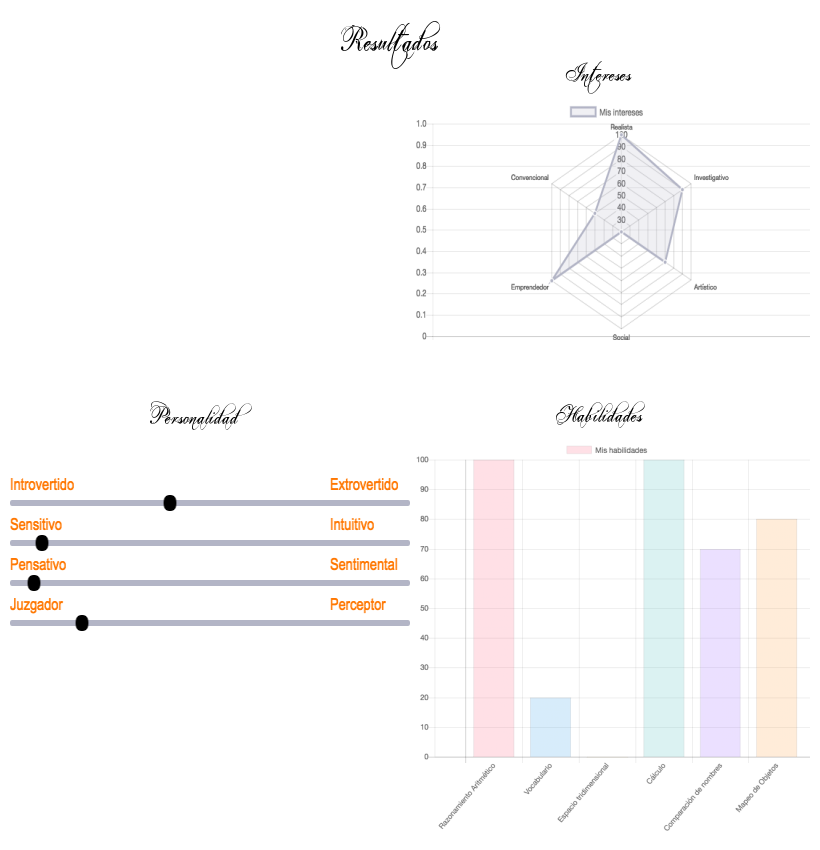
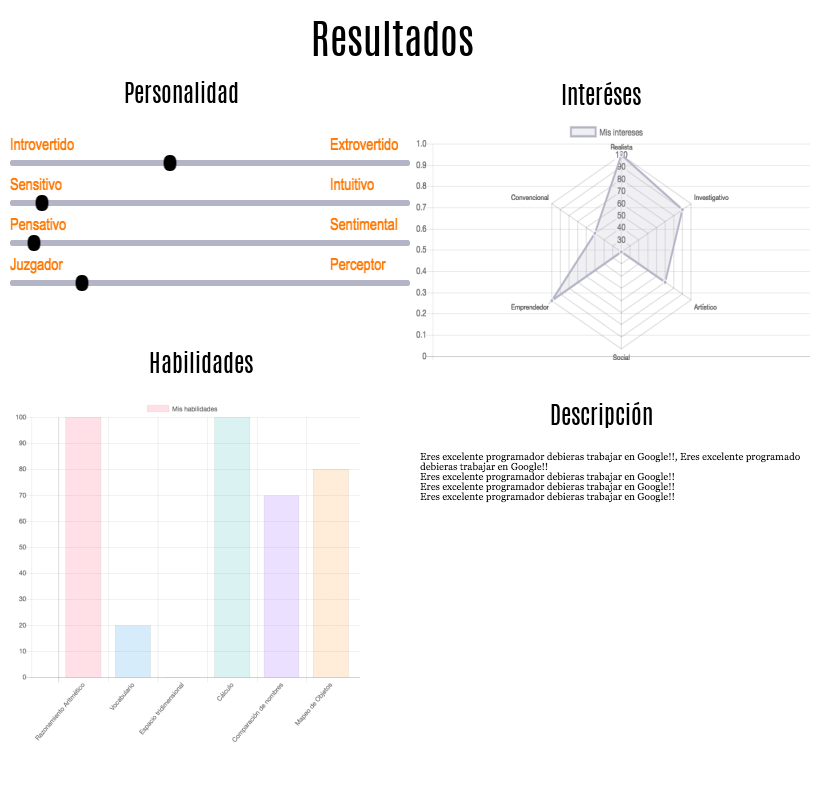
Fixed results layout

diff --git a/assets/js/social.js b/assets/js/social.js
@@ -17,11 +17,6 @@ $(document).ready(function () {
             var description = _convertDescriptionToCanvas();
 
 
-            console.log(description);
-
-            return;
-
-
             bootbox.prompt("Comenta algo sobre tu resultado", function (result) {
                 if (result !== null) {
 
@@ -36,6 +31,7 @@ $(document).ready(function () {
                             interests: interests,
                             skills: skills,
                             personality: personality,
+                            description: description,
                             token: token,
                             message: result
                         },
@@ -58,9 +54,6 @@ $(document).ready(function () {
             });
 
 
-
-
-
         }
 
         var _convertDescriptionToCanvas = function () {
@@ -69,8 +62,8 @@ $(document).ready(function () {
             var c = document.getElementById("canvas-user-description");
             var ctx = c.getContext("2d");
 
-            ctx.font = "14px Georgia";
-            wrapText(ctx, description,20,20,400,10);
+            ctx.font = "10px Georgia";
+            wrapText(ctx, description, 20, 20, 400, 10);
             //_fillTextMultiLine(ctx, description, 10,0);
             // ctx.fillText(description, 10, 50);
 
@@ -84,7 +77,7 @@ $(document).ready(function () {
             for (var ii = 0; ii < cars.length; ii++) {
 
                 var line = "";
-                var words = cars[ii].split(" ");
+                var words = cars[ii].trim().split(" ");
 
                 for (var n = 0; n < words.length; n++) {
                     var testLine = line + words[n] + " ";
@@ -101,7 +94,7 @@ $(document).ready(function () {
                     }
                 }
 
-                context.fillText(line, x, y);
+                context.fillText(line.trim(), x, y);
                 y += lineHeight;
             }
         }
@@ -112,9 +105,6 @@ $(document).ready(function () {
 
 
     })($, _);
-
-
-
 
 
     //Orientame.socialNetwork.render();

diff --git a/api.php b/api.php
@@ -41,39 +41,51 @@ class Orientame {
                             'interests' => $_POST['interests'],
                             'skills' => $_POST['skills'],
                             'personality' => $_POST['personality'],
+                            'description' => $_POST['description'],
                         );
+
 
                         Image::configure(array('driver' => 'gd'));
 
-                        $imgCanvas = Image::canvas(820, 850, '#fff');
+                        $fontPath = 'assets/fonts/Antonio-Regular.ttf';
 
-                        $imgCanvas->text('Resultados', 390, 20, function($font) {
-                            $font->file('assets/fonts/eutemia.ttf');
+                        $imgCanvas = Image::canvas(820, 800, '#fff');
+
+                        $imgCanvas->text('Resultados', 390, 20, function($font) use ($fontPath){
+                            $font->file($fontPath);
                             $font->color('#000');
                             $font->align('center');
                             $font->valign('top');
-                            $font->size(30);
+                            $font->size(40);
                         });
 
-                        $imgCanvas->text('Intereses', 600, 60, function($font) {
-                            $font->file('assets/fonts/eutemia.ttf');
-                            $font->color('#000');
-                            $font->align('center');
-                            $font->valign('top');
-                            $font->size(24);
-                        });
-
-                        $imgCanvas->text('Personalidad', 200, 400, function($font) {
-                            $font->file('assets/fonts/eutemia.ttf');
+                        $imgCanvas->text('Personalidad', 180, 80, function($font) use ($fontPath){
+                            $font->file($fontPath);
                             $font->color('#000');
                             $font->align('center');
                             $font->valign('top');
                             $font->size(24);
                         });
 
+                        $imgCanvas->text('Interéses', 600, 80, function($font) use($fontPath) {
+                            $font->file($fontPath);
+                            $font->color('#000');
+                            $font->align('center');
+                            $font->valign('top');
+                            $font->size(24);
+                        });
 
-                        $imgCanvas->text('Habilidades', 600, 400, function($font) {
-                            $font->file('assets/fonts/eutemia.ttf');
+                        $imgCanvas->text('Habilidades', 200, 350, function($font) use($fontPath){
+                            $font->file($fontPath);
+                            $font->color('#000');
+                            $font->align('center');
+                            $font->valign('top');
+                            $font->size(24);
+                        });
+
+
+                        $imgCanvas->text('Descripción', 600, 400, function($font) use($fontPath) {
+                            $font->file($fontPath);
                             $font->color('#000');
                             $font->align('center');
                             $font->valign('top');
@@ -82,14 +94,16 @@ class Orientame {
 
 
                         //$imgCanvas->text('Resultados Orientación Vocacional');
+                        $imgDescription = Image::make($_POST['description']);
                         $imgInterests = Image::make($_POST['interests'])->resize(400, 240);
                         $imgPersonality = Image::make($_POST['personality'])->resize(400, 200);
-                        $imgSkills = Image::make($_POST['skills'])->resize(400, 400);
+                        $imgSkills = Image::make($_POST['skills'])->resize(350,350);
 
 
-                        $imgCanvas->insert($imgInterests, 'top-left', 410, 100);
-                        $imgCanvas->insert($imgPersonality, 'top-left', 10, 460);
-                        $imgCanvas->insert($imgSkills, 'top-left', 410, 440);
+                        $imgCanvas->insert($imgSkills, 'top-left', 10, 400);
+                        $imgCanvas->insert($imgInterests, 'top-left', 410, 120);
+                        $imgCanvas->insert($imgPersonality, 'top-left', 10, 120);
+                        $imgCanvas->insert($imgDescription, 'top-left', 400, 440);
 
 
                         $imgCanvas->save("results/{$user->id}.png");

diff --git a/model/User.php b/model/User.php
@@ -40,7 +40,7 @@ class User {
 
     public static function setImage($id, $image) {
 
-        $q = "UPDATE users set img_interests = '{$image['interests']}', img_skills = '{$image['interests']}',img_personality = '{$image['personality']}' WHERE id = {$id}";
+        $q = "UPDATE users set img_interests = '{$image['interests']}', img_skills = '{$image['interests']}',img_personality = '{$image['personality']}', img_description = '{$image['description']}' WHERE id = {$id}";
 
         $r = static::db()->exec($q);
 

diff --git a/view/_results.php b/view/_results.php
@@ -75,7 +75,7 @@
                 Eres excelente programador debieras trabajar en Google!!
                 Eres excelente programador debieras trabajar en Google!!</p>
 
-            <canvas id="canvas-user-description" width="400" height="400"></canvas>
+            <canvas id="canvas-user-description" width="400"></canvas>
         </div>
 
         <div class="col-sm-6" style="text-align: center">

diff --git a/view/_main.php b/view/_main.php
@@ -6,6 +6,7 @@
     <script src="assets/build/src/orientame.js"></script>
     <script src="assets/js/charts.js"></script>
     <script src="assets/js/social.js"></script>
+    <script src="html2canvas/dist/html2canvas.js"></script>
     <meta http-equiv="Content-Type" content="text/html; charset=UTF-8"/>
 
 </head>
